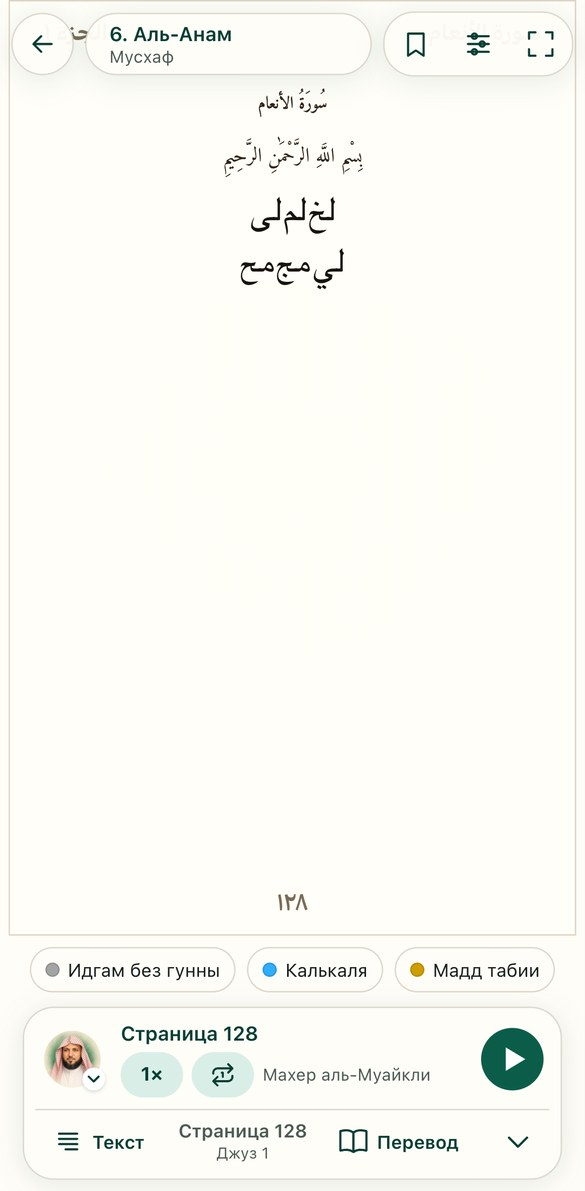
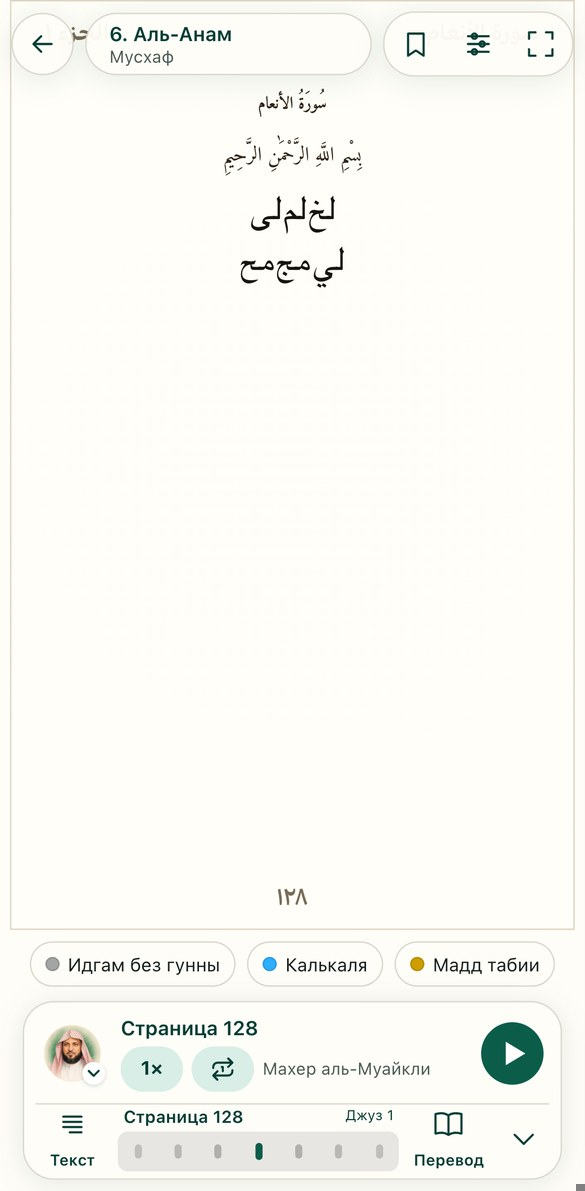
Сайт: ползунок страниц в читалке Мусхафа на телефоне
В нижнем ряду читалки вместо подписи страницы — ползунок, как в
приложении: «Страница N» и «Джуз N» над семью отметками-страницами
вокруг открытой, справа налево. Касание отметки или протяжка по ним
открывает страницу; отметки доступны и с клавиатуры.

diff --git a/services/web/components/MushafReaderLayout.tsx b/services/web/components/MushafReaderLayout.tsx
@@ -46,8 +46,79 @@ function ReaderIcon({ name }: { name: "exit" | "settings" | "audio" | "notes" | 
   return <svg width="22" height="22" viewBox="0 0 24 24" fill="none" stroke="currentColor" strokeWidth="1.7" strokeLinecap="round" strokeLinejoin="round" aria-hidden="true">{paths[name]}</svg>;
 }
 
+/**
+ * The page scrubber of the app's Mushaf (mushaf_reader_controls.dart): the
+ * page and its juz over seven marks, the pages around the open one, laid out
+ * right to left like the book. A tap or a drag across them opens that page.
+ */
+function PageScrubber({ page, count, juz, onJump }: { page: number; count: number; juz?: number | ""; onJump: (page: number) => void }) {
+  const { t, formatNumber } = useI18n();
+  const slots = Math.min(7, Math.max(1, count));
+  // While a finger drags, the marks keep their pages.
+  const [dragStart, setDragStart] = useState<number | null>(null);
+  const requested = useRef<number | null>(null);
+  const moved = useRef(false);
+  const start = dragStart ?? Math.min(Math.max(1, page - 3), Math.max(1, count - slots + 1));
+  const pages = Array.from({ length: slots }, (_, index) => start + index);
+  const pageAt = (x: number, box: DOMRect) => {
+    const slot = Math.min(slots - 1, Math.max(0, Math.floor(((x - box.left) / box.width) * slots)));
+    return start + slots - 1 - slot;
+  };
+  const end = () => {
+    setDragStart(null);
+    requested.current = null;
+  };
+  return (
+    <div className="reader-scrubber" data-testid="reader-scrubber">
+      <div className="reader-scrubber-head">
+        <strong>{t("common.page", { page: formatNumber(page) })}</strong>
+        {juz ? <small>{t("quran.markJuz", { juz: formatNumber(juz) })}</small> : null}
+      </div>
+      <div
+        className="reader-scrubber-marks"
+        dir="rtl"
+        role="group"
+        aria-label={t("quran.pageOf", { page, count })}
+        onPointerDown={() => {
+          moved.current = false;
+          requested.current = page;
+          setDragStart(start);
+        }}
+        onPointerMove={(event) => {
+          if (dragStart === null || event.buttons === 0 && event.pointerType === "mouse") return;
+          const target = pageAt(event.clientX, event.currentTarget.getBoundingClientRect());
+          if (target === requested.current) return;
+          moved.current = true;
+          requested.current = target;
+          onJump(target);
+        }}
+        onPointerUp={end}
+        onPointerCancel={end}
+        onPointerLeave={(event) => {
+          if (event.pointerType === "mouse") end();
+        }}
+      >
+        {pages.map((item) => (
+          <button
+            key={item}
+            type="button"
+            aria-label={t("common.page", { page: formatNumber(item) })}
+            aria-current={item === page ? "page" : undefined}
+            style={{ "--away": Math.abs(item - page) } as CSSProperties}
+            onClick={() => {
+              if (!moved.current && item !== page) onJump(item);
+            }}
+          >
+            <span />
+          </button>
+        ))}
+      </div>
+    </div>
+  );
+}
+
 /** Viewport and overlays only. Reader data and all existing controls stay mounted. */
-export function MushafReaderLayout({ active, page, count, pageRatio, hasNotes, hasSession, onImmersiveChange, onOpenText, title, subtitle, juz, bookmark, children }: {
+export function MushafReaderLayout({ active, page, count, pageRatio, hasNotes, hasSession, onImmersiveChange, onOpenText, title, subtitle, juz, bookmark, onJumpPage, children }: {
   active: boolean;
   page: number;
   count: number;
@@ -64,6 +135,8 @@ export function MushafReaderLayout({ active, page, count, pageRatio, hasNotes, h
   juz?: number | "";
   /** The bookmark of the selected ayah, in the phone's top bar. */
   bookmark?: { saved: boolean; disabled: boolean; label: string; onToggle: () => void };
+  /** Opens a page from the phone's page scrubber. */
+  onJumpPage?: (page: number) => void;
   children: ReactNode;
 }) {
   const { t, formatNumber } = useI18n();
@@ -287,10 +360,12 @@ export function MushafReaderLayout({ active, page, count, pageRatio, hasNotes, h
                           <ReaderIcon name="text" /><span>{t("surahs.textMode")}</span>
                         </button>
                       )}
-                        <span className="reader-page-label" aria-label={t("quran.pageOf", { page, count })}>
-                          <strong>{t("common.page", { page: formatNumber(page) })}</strong>
-                          {juz ? <small>{t("quran.markJuz", { juz: formatNumber(juz) })}</small> : null}
-                        </span>
+                        {onJumpPage ? <PageScrubber page={page} count={count} juz={juz} onJump={onJumpPage} /> : (
+                          <span className="reader-page-label" aria-label={t("quran.pageOf", { page, count })}>
+                            <strong>{t("common.page", { page: formatNumber(page) })}</strong>
+                            {juz ? <small>{t("quran.markJuz", { juz: formatNumber(juz) })}</small> : null}
+                          </span>
+                        )}
                         {hasSession && <button type="button" onClick={(event) => openPanel("session", event.currentTarget)} aria-label={t("quran.readerSession")} title={t("quran.readerSession")}><ReaderIcon name="session" /></button>}
                         {hasNotes && (
                           <button type="button" className="reader-labelled" onClick={(event) => openPanel("notes", event.currentTarget)} aria-label={t("quran.readerNotes")} title={t("quran.readerNotes")}>

diff --git a/services/web/e2e/quran-audio.spec.ts b/services/web/e2e/quran-audio.spec.ts
@@ -1981,7 +1981,17 @@ test.describe("word selection on a phone", () => {
     await expect(top.getByRole("button", { name: "Настройки чтения" })).toBeVisible();
     const row = page.locator(".reader-actions .reader-action-buttons");
     await expect(row.getByTestId("reader-open-text")).toHaveText("Текст");
-    await expect(row.locator(".reader-page-label")).toContainText("Страница 128");
+    // The page scrubber: the page, seven marks around it, right to left like the book.
+    const scrubber = row.getByTestId("reader-scrubber");
+    await expect(scrubber).toContainText("Страница 128");
+    await expect(scrubber.getByRole("button")).toHaveCount(7);
+    await expect(scrubber.locator('[aria-current="page"]')).toHaveAttribute("aria-label", "Страница 128");
+    const marks = await scrubber.getByRole("button").evaluateAll((buttons) => buttons
+      .map((button) => ({ label: button.getAttribute("aria-label"), left: button.getBoundingClientRect().left }))
+      .sort((a, b) => a.left - b.left)
+      .map((button) => button.label));
+    expect(marks[0]).toBe("Страница 131");
+    expect(marks[6]).toBe("Страница 125");
     await expect(row.getByRole("button", { name: "Свернуть меню читалки" })).toBeVisible();
     await view.locator('.qf-mushaf-ayah-fragment[data-ayah-key="6:2"] .qf-mushaf-word.is-ayah-end').click();
     await expect(actions).toBeVisible();
@@ -2014,6 +2024,23 @@ test.describe("word selection on a phone", () => {
     await page.getByTestId("word-range-more").click();
     await expect(actions).toBeVisible();
     await expect(actions).toContainText("Аят 6:2");
+  });
+
+  test("the page scrubber under the phone Mushaf opens a tapped page", async ({ page }) => {
+    await installTajweedMocks(page);
+    await page.goto("/ru/quran?surah=6");
+    const view = page.locator('.qf-mushaf-view[data-mushaf-id="19"]');
+    await expect(view).toHaveAttribute("data-font-status", "ready");
+    const scrubber = page.getByTestId("reader-scrubber");
+    await expect(scrubber).toContainText("Страница 128");
+    await scrubber.getByRole("button", { name: "Страница 129" }).click();
+    await expect(page.locator(".mushaf-page-turn .qf-mushaf-view").first()).toHaveAttribute("data-page-number", "129");
+    await expect(scrubber).toContainText("Страница 129");
+    await scrubber.getByRole("button", { name: "Страница 128" }).click();
+    await expect(scrubber).toContainText("Страница 128");
+    // The turned page leaves; the open one stays alone.
+    await expect(view).toHaveCount(1);
+    await expect(view).toHaveAttribute("data-page-number", "128");
   });
 
   test("a finger grows the selection, then pulls its handles, in the Mushaf and the text", async ({ page }) => {

diff --git a/services/web/app/mushaf-reader.css b/services/web/app/mushaf-reader.css
@@ -673,18 +673,26 @@ body:has(.quran-reader-boot) .app-footer {
 .reader-top-title small { color: #4b5b53; font-size: 12px; }
 .reader-top-actions { display: flex; border-radius: 22px; }
 
-.reader-actions.is-app .reader-action-buttons { flex-wrap: nowrap; gap: 8px; }
+.reader-actions.is-app .reader-action-buttons { flex-wrap: nowrap; gap: 6px; }
 
+/* The icon over its name, so the page scrubber keeps the middle of the row. */
 .reader-actions button.reader-labelled {
-  grid-auto-flow: column;
   flex: 0 0 auto;
-  gap: 6px;
+  gap: 1px;
   width: auto;
-  padding: 0 12px;
-  border-radius: 22px;
+  min-width: 52px;
+  height: 48px;
+  padding: 0 4px;
+  border-radius: 14px;
   font: inherit;
-  font-size: 13px;
+  font-size: 11px;
   font-weight: 600;
+  line-height: 1.2;
+}
+
+.reader-actions.is-app .reader-action-buttons > button:last-child {
+  flex-basis: 36px;
+  width: 36px;
 }
 
 .reader-actions.is-app .reader-page-label {
@@ -697,3 +705,53 @@ body:has(.quran-reader-boot) .app-footer {
 
 .reader-actions.is-app .reader-page-label strong { font-size: 13px; font-weight: 600; }
 .reader-actions.is-app .reader-page-label small { font-size: 11px; }
+
+/* The page scrubber in the phone reader's row, as in the app. */
+.reader-scrubber {
+  display: grid;
+  flex: 1 1 0;
+  gap: 2px;
+  min-width: 0;
+}
+
+.reader-scrubber-head {
+  display: flex;
+  justify-content: space-between;
+  gap: 8px;
+  padding-inline: 4px;
+  font-size: 12px;
+  line-height: 1.3;
+  white-space: nowrap;
+  overflow: hidden;
+}
+
+.reader-scrubber-head strong { font-weight: 600; }
+
+.reader-scrubber-marks {
+  display: flex;
+  border-radius: 7px;
+  background: #e8e6e3;
+  touch-action: none;
+}
+
+.reader-actions .reader-scrubber-marks button {
+  flex: 1 1 0;
+  width: auto;
+  min-width: 0;
+  height: 28px;
+  border-radius: 7px;
+}
+
+.reader-scrubber-marks button span {
+  width: 5px;
+  height: 10px;
+  border-radius: 4px;
+  background: #aaa8a3;
+  opacity: max(0.3, calc(1 - var(--away) * 0.12));
+}
+
+.reader-scrubber-marks button[aria-current="page"] span {
+  height: 12px;
+  background: var(--primary);
+  opacity: 1;
+}

diff --git a/services/web/components/QuranPage.tsx b/services/web/components/QuranPage.tsx
@@ -1782,6 +1782,17 @@ function QuranContent() {
     queueReadingPlace({ pageNumber: nextPage });
   }, [currentPage, mushafPageCount, queueReadingPlace]);
 
+  // The phone reader's page scrubber opens a page by its number.
+  const jumpToMushafPage = useCallback((page: number) => {
+    const nextPage = Math.min(mushafPageCount, Math.max(1, page));
+    setPageTurnDirection(nextPage >= currentPage ? "next" : "previous");
+    pendingMushafAyah.current = null;
+    pendingNavigationPage.current = null;
+    setSelectedMushafAyah(null);
+    setCurrentPage(nextPage);
+    queueReadingPlace({ pageNumber: nextPage });
+  }, [currentPage, mushafPageCount, queueReadingPlace]);
+
   const annotationTarget = (ayahKey: string) => {
     const [surahNumber, ayahNumber] = ayahKey.split(":").map(Number);
     const ayah = ayahs.find(
@@ -1999,6 +2010,7 @@ function QuranContent() {
       subtitle={selectedMushafAyah ? t("common.ayah", { ayah: selectedMushafAyah }) : t("surahs.mushafMode")}
       juz={divisionAtAyah(juz, currentAyahKey)}
       bookmark={readerBookmark}
+      onJumpPage={jumpToMushafPage}
     >
       <MushafReaderPanel name="session" label={t("quran.readerSession")}>
         {prayerReadingConfig === null ? (

diff --git a/docs/guides/mobile-site-reader/README.md b/docs/guides/mobile-site-reader/README.md
@@ -1,16 +1,16 @@
 # Читалка Мусхафа на сайте с телефона — как в приложении
 
-Мусхаф на сайте с телефона получил панели как в приложении: сверху кнопка «назад», название суры, закладка и настройки; снизу плеер и ряд «Текст — страница и джуз — Перевод». Касание страницы прячет и возвращает панели.
+Мусхаф на сайте с телефона получил панели как в приложении: сверху кнопка «назад», название суры, закладка и настройки; снизу плеер и ряд «Текст — ползунок страниц — Перевод». Касание страницы прячет и возвращает панели.
 
 **Где найти:** сайт iqro.forum с телефона: «Коран» → выберите суру (режим «Мусхаф»).
 
-**Сайт и приложение:** расположение как в приложении. На сайте дополнительно есть значки «Настройки чтения» и «На весь экран» сверху и стрелка «Свернуть меню» внизу. Ползунка страниц, масштаба и списка закладок в читалке сайта пока нет.
+**Сайт и приложение:** расположение как в приложении. На сайте дополнительно есть значки «Настройки чтения» и «На весь экран» сверху и стрелка «Свернуть меню» внизу. Масштаба и списка закладок в читалке сайта пока нет.
 
 ## Мусхаф: панели как в приложении
 
 ![Мусхаф: панели как в приложении](1-reader.png)
 
-Сверху — «назад», сура и выбранный аят, закладка. Снизу — плеер, «Текст», номер страницы с джузом и «Перевод». Коснитесь страницы, чтобы убрать панели и читать.
+Сверху — «назад», сура и выбранный аят, закладка. Снизу — плеер, «Текст», ползунок страниц с номером джуза и «Перевод». Коснитесь страницы, чтобы убрать панели и читать.
 
 ---
 

diff --git a/services/web/docs/mobile-presentation-review.md b/services/web/docs/mobile-presentation-review.md
@@ -260,4 +260,5 @@ build, CSS integrity (2 чанка, 117 660 байт) и diff check прошли
 - Касание страницы по-прежнему прячет и возвращает панели. Кнопка «Свернуть меню читалки» оставлена: это способ скрыть панели без касания (клавиатура, экранная читалка), его проверяет тест.
 - Верхняя панель лежит поверх листа и места под себя не отнимает, как в приложении.
 - На компьютере в полноэкранном режиме осталась прежняя единая панель.
-- Пока нет (следующие части): ползунка страниц, масштаба, списка закладок и выбора Мусхафа в читалке.
+- Ползунок страниц (`PageScrubber` в `MushafReaderLayout.tsx`, образец — `mushaf_reader_controls.dart`): «Страница N» и «Джуз N» над семью отметками — страницами вокруг открытой, справа налево, как в книге. Касание отметки или протяжка по ним открывает страницу (`jumpToMushafPage` в `QuranPage.tsx`). Отметки — кнопки с подписью «Страница N», так что ползунок работает и с клавиатуры.
+- Пока нет (следующая часть): масштаба, списка закладок и выбора Мусхафа в читалке.
